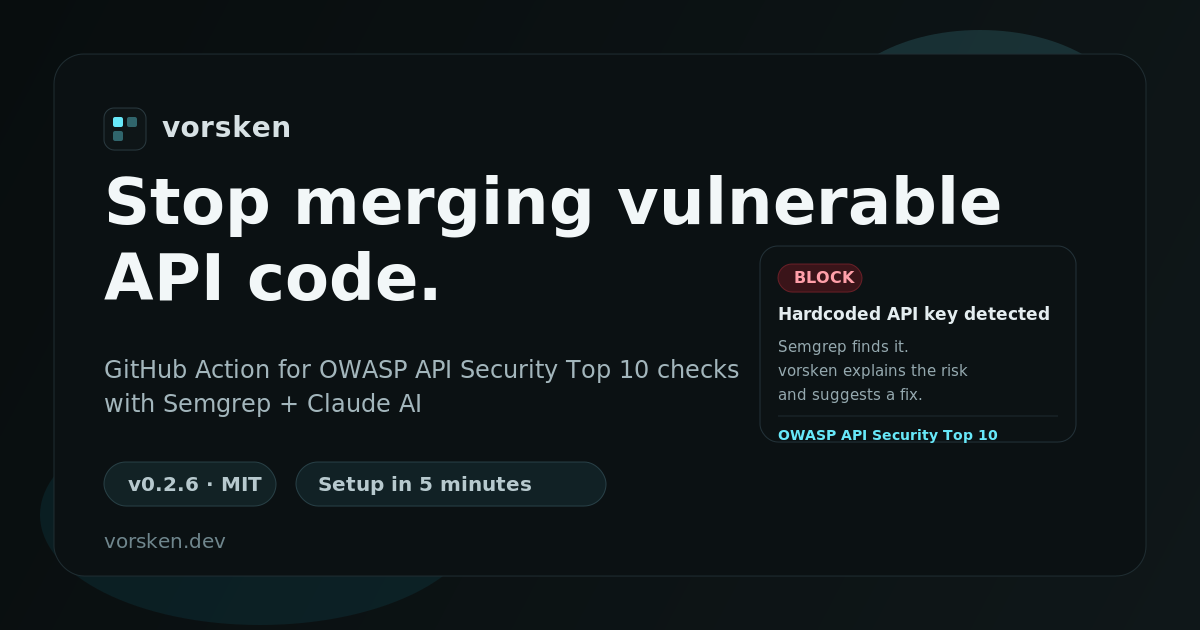
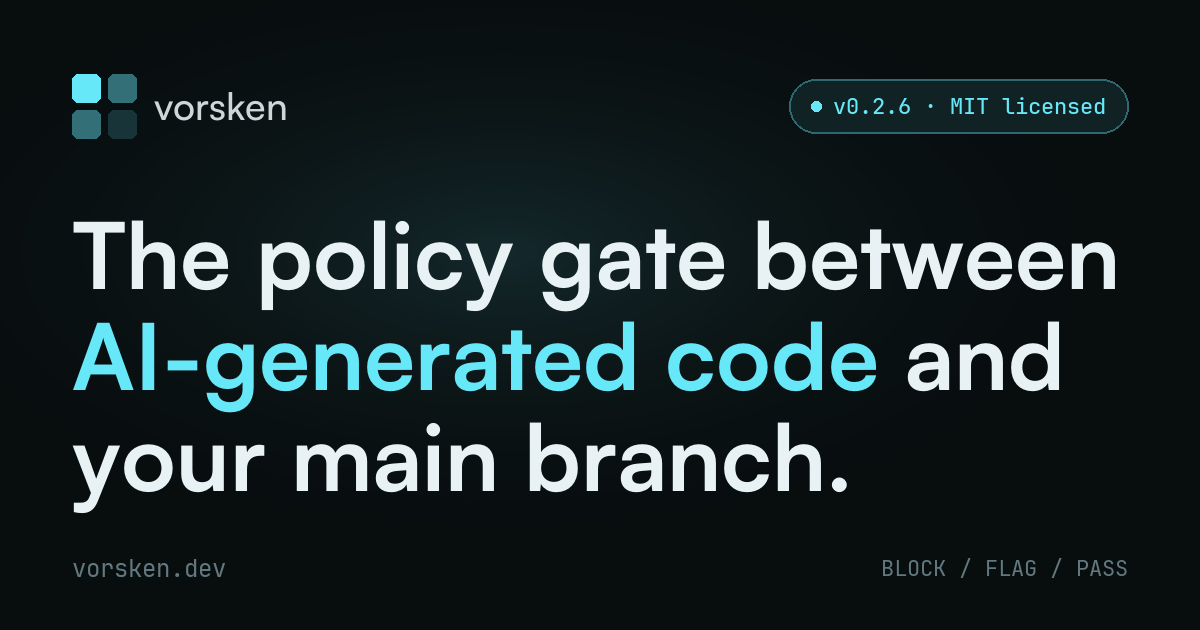
site: regenerate og-image for new positioning + align social meta tags

diff --git a/index.html b/index.html
@@ -3,7 +3,7 @@
   <head>
     <meta charset="UTF-8" />
     <meta name="viewport" content="width=device-width, initial-scale=1.0" />
-    <title>vorsken — API Security Gate for GitHub PRs</title>
+    <title>vorsken — Policy gate for AI-generated code (GitHub Action)</title>
     <meta
       name="description"
       content="The policy gate between AI-generated code and your main branch. vorsken is a GitHub Action that scans pull requests for OWASP API Security Top 10 issues with Semgrep and Claude AI."
@@ -11,7 +11,7 @@
 
     <meta
       property="og:title"
-      content="vorsken — Stop merging vulnerable API code."
+      content="vorsken — The policy gate between AI-generated code and your main branch"
     />
     <meta
       property="og:description"
@@ -24,22 +24,22 @@
     <meta property="og:image:height" content="630" />
     <meta
       property="og:image:alt"
-      content="vorsken preview image with the headline Stop merging vulnerable API code."
+      content="vorsken preview image with the headline: The policy gate between AI-generated code and your main branch."
     />
 
     <meta name="twitter:card" content="summary_large_image" />
     <meta
       name="twitter:title"
-      content="vorsken — Stop merging vulnerable API code."
+      content="vorsken — The policy gate between AI-generated code and your main branch"
     />
     <meta
       name="twitter:description"
-      content="A GitHub Action for OWASP API Security Top 10 checks on pull requests with Semgrep and Claude AI."
+      content="Enforces security policy at merge time on AI-generated code — Semgrep + Claude, BLOCK / FLAG / PASS on every PR. Tool-agnostic, OSS."
     />
     <meta name="twitter:image" content="https://vorsken.dev/og-image.png" />
     <meta
       name="twitter:image:alt"
-      content="vorsken preview image with the headline Stop merging vulnerable API code."
+      content="vorsken preview image with the headline: The policy gate between AI-generated code and your main branch."
     />
 
     <link rel="preconnect" href="https://api.fontshare.com" />